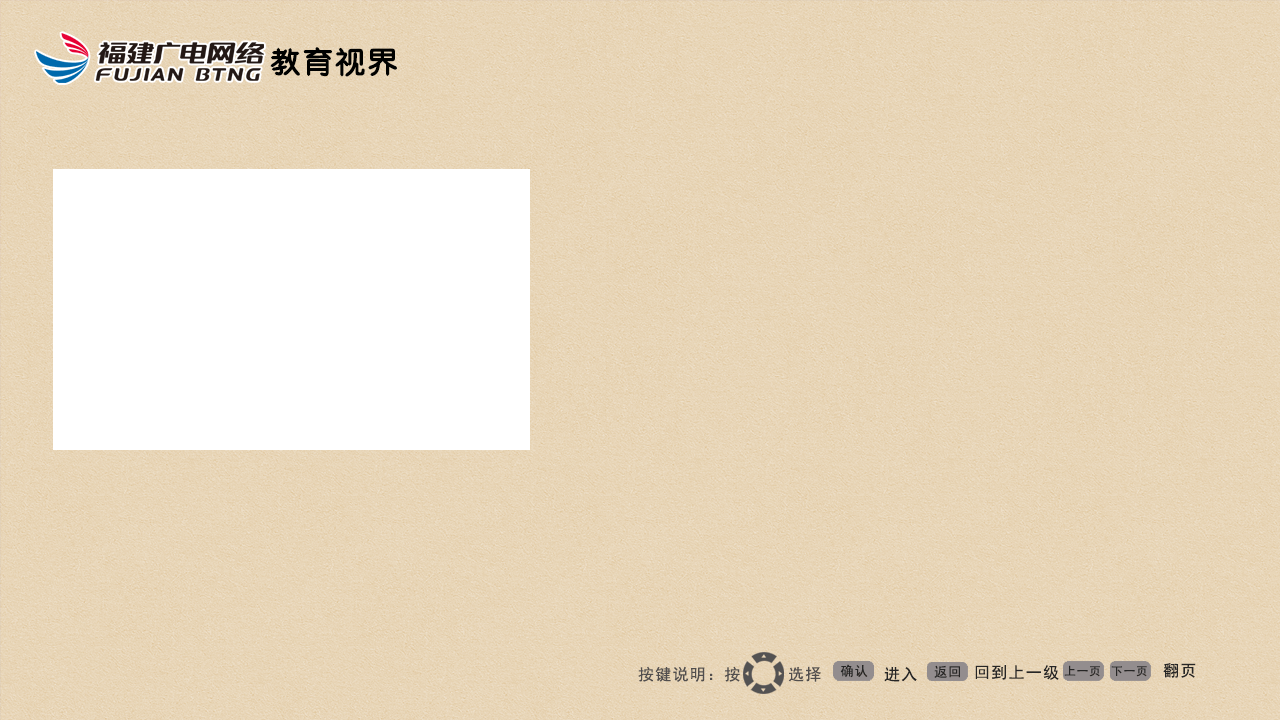
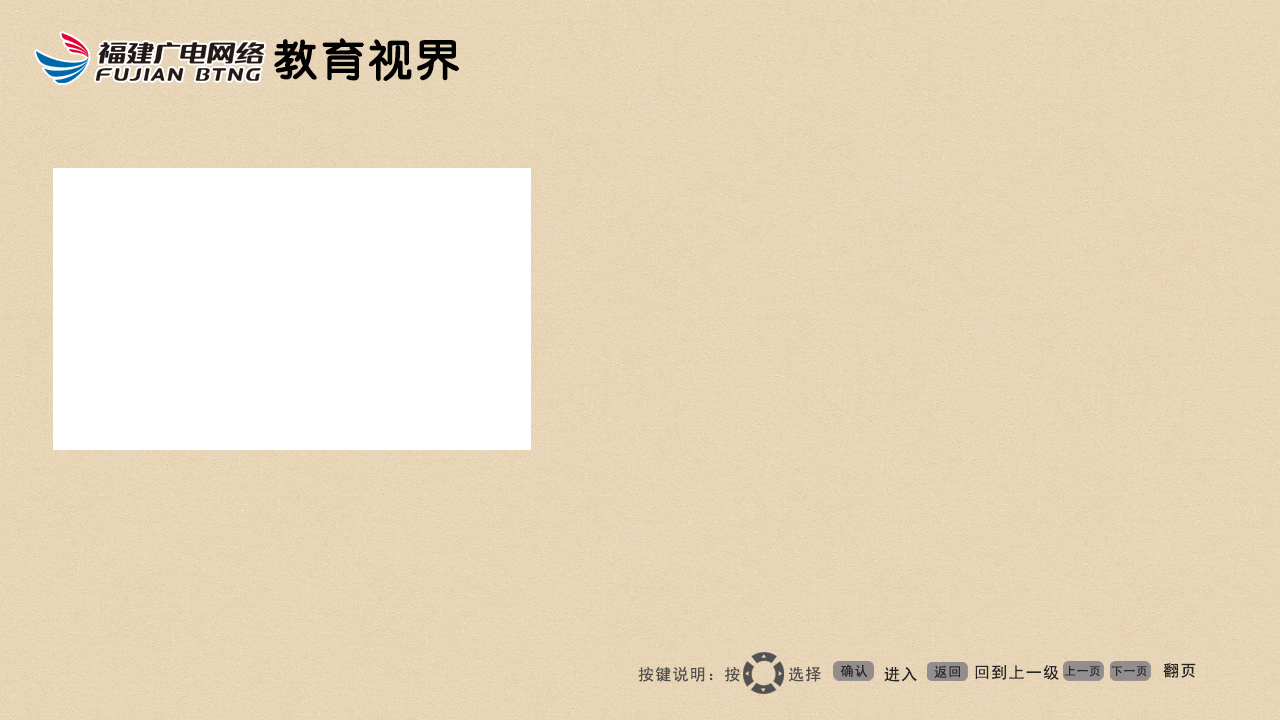
修改首页页面，将右侧滚动图片改为列表

Changed region(s): [[0.1875, 0.0306, 0.375, 0.1222]]

diff --git a/view/index.html b/view/index.html
@@ -9,8 +9,12 @@
 <div class="index-bg">
     <div id="bar" class="bar"></div>
     <div id="menu"></div>
-    <div id="swiper" class="swiper"></div>
+    <div id="notices_board" class="notices_board">
+        <div id="notices_board_bar"></div>
+        <div class="list-item-more"></div>
+    </div>
     <div id="weather-forecast"></div>
+    <div class="qrcode"></div>
     <div id="cursor"></div>
     <div id="debug-message"></div>
 </div>
@@ -21,8 +25,8 @@
 <script type="application/javascript" src="../cms/cms.api.js"></script>
 <script type="application/javascript" src="../module/bar.module.js"></script>
 <script type="application/javascript" src="../wrapper/bar.wrapper.js"></script>
-<script type="application/javascript" src="../module/swiper.module.js"></script>
 <script type="application/javascript" src="../module/menu.module.js"></script>
+<script type="application/javascript" src="../module/list.module.js"></script>
 <script type="application/javascript" src="../module/video.module.js"></script>
 <script type="application/javascript" src="../module/cursor.module.js"></script>
 <script type="application/javascript" src="../module/transfer.module.js"></script>
@@ -51,9 +55,9 @@
                     resourceId: cmsConfig.indexResourceIdArray[2].resourceId
                 },
                 {
-                    left: 56,
+                    left: 218,
                     top: 454,
-                    width: 805,
+                    width: 642,
                     height: 160,
                     bgImageSrc: 'url(../images/index/3.png) no-repeat',
                     resourceId: cmsConfig.indexResourceIdArray[3].resourceId
@@ -62,23 +66,38 @@
         }];
     }
 
-    function SwiperComponent() {
-        SwiperModule.call(this);
+    function ListComponent() {
+        ListModule.call(this);
 
-        this.swiperTop = 172;
-        this.swiperLeft = 868;
-        this.swiperWidth = 359;
-        this.swiperHeight = 446;
+        // 属性
+        this.focusPos = 0;
+        this.boardLeft = 865;
+        this.boardTop = 172;
+        this.boardWidth = 380;
+        this.boardHeight = 445;
+        this.noticesBoardBarWidth = 380;
+        this.noticesBoardBarHeight = 47;
+        this.itemLeft = 870;
+        this.itemTop = 222;
+        this.itemWidth = 370;
+        this.itemHeight = 32;
+        this.itemMoreLeft = 1068;
+        this.itemMoreTop = 565;
+        this.itemMoreWidth = 142;
+        this.itemMoreHeight = 34;
+        this.listItemNum = 8;
         this.resourceId = cmsConfig.indexResourceIdArray[4].resourceId;
+
+        // 方法
     }
 
-    function CursorComponent(bar, swiper, menu, video) {
+    function CursorComponent(bar, list, menu, video) {
         CursorModule.call(this);
 
         // 属性
         this.focusArea = 5;
         this.bar = bar;
-        this.swiper = swiper;
+        this.list = list;
         this.menu = menu;
         this.video = video;
         this.fileName = 'PG-ONE';
@@ -109,16 +128,15 @@
                     if (this.cursor.menu.focusPosY === 0 && direction < 0) {
                         this.cursor.focusArea = 7;              //  小视频
                     } else {
-                        this.cursor.focusArea = 6;              //  滚动图片
+                        this.cursor.focusArea = 2;              //  列表
                     }
                     break;
                 case 5:         // 栏目
                     this.remove('PG-ONE');              // 清除同一级的路径记录
                     this.cursor.bar.moveX(direction);
                     break;
-                case 6:         //  滚动图片
-                    if (-1 === this.cursor.swiper.moveX(direction) && direction < 0) {
-                        this.cursor.swiper.triggerTimer();
+                case 2:         //  列表
+                    if (direction < 0) {
                         this.cursor.focusArea = 0;
                         this.cursor.menu.focusPosX = 0;
                         this.cursor.menu.focusPosY = 0;
@@ -148,9 +166,8 @@
                 case 5:         // 栏目
                     this.cursor.focusArea = 7;
                     break;
-                case 6:         //  滚动图片
-                    if (-1 === this.cursor.swiper.moveY(direction)) {
-                        this.cursor.swiper.triggerTimer();
+                case 2:         //  滚动图片
+                    if (-1 === this.cursor.list.moveY(direction)) {
                         this.cursor.focusArea = 5;
                     }
                     break;
@@ -201,20 +218,34 @@
                     postfix = this.package(params);
                     window.location.href = 'video.html' + postfix;
                     break;
-                case 6:
-                    params =
-                        {
-                            'PG-ONE': {
-                                focusArea: this.cursor.focusArea
-                            },
-                            'VIDEO': {
-                                backURL: this.backUrl(),
-                                focusArea: this.cursor.focusArea,
-                                assertId: this.cursor.swiper.album[this.cursor.swiper.position].assertId
-                            }
+                case 2:         // 列表
+                    params = {
+                        'PG-ONE': {
+                            focusArea: this.cursor.focusArea,
+                            focusPos: this.cursor.list.focusPos
+                        }
+                    };
+                    if (this.cursor.list.listItemTitleArray[this.cursor.list.focusPos].flag === 0) {
+                        params.VIDEO = {
+                            backURL: this.backUrl(),
+                            fileName: this.cursor.fileName,
+                            focusArea: this.cursor.focusArea,
+                            focusPos: this.cursor.list.focusPos,
+                            assertId: this.cursor.list.listItemTitleArray[this.cursor.list.focusPos].assetID
                         };
-                    postfix = this.package(params);
-                    window.location.href = 'video.html' + postfix;
+                        postfix = this.package(params);
+                        window.location.href = 'video.html' + postfix;
+                    } else {
+                        params.PG_MORE = {
+                            resourceId: cmsConfig.studentResourceIdArray[2].resourceId,
+                            resourceType: 'video',
+                            backURL: 'index.html',
+                            logoImageSrc: '',
+                            pageIndex: 1
+                        };
+                        postfix = this.package(params);
+                        window.location.href = 'more.html' + postfix;
+                    }
                     break;
                 case 7:
                     params =
@@ -303,9 +334,9 @@
     window.onload = function () {
         var
             barComponent = new BarComponent(),
-            swiperComponent = new SwiperComponent(),
+            listComponent = new ListComponent(),
             menuComponent = new MenuComponent(),
-            cursorComponent = new CursorComponent(barComponent, swiperComponent, menuComponent, videoComponent),
+            cursorComponent = new CursorComponent(barComponent, listComponent, menuComponent, videoComponent),
             transferComponent = new TransferComponent(cursorComponent),
             weatherModule = new WeatherModule();
 
@@ -327,7 +358,6 @@
          */
         transferComponent.init();
         barComponent.init();
-        swiperComponent.init();
         menuComponent.init();
         videoComponent.init();
         weatherModule.init(function () {
@@ -342,7 +372,9 @@
         /**
          *  光标定位
          */
-        cursorComponent.focusOn();
+        listComponent.init(function () {
+            cursorComponent.focusOn();
+        });
     };
 
     window.onunload = function () {

diff --git a/cms/cms.config.js b/cms/cms.config.js
@@ -7,8 +7,8 @@ var cmsConfig = {
     imgUrl: 'http://10.184.255.10:8080/manage/',
     backUrl: '',
     index_back_url: '',
-    environment: 'DEBUG',
-    // environment: 'PRODUCT',
+    // environment: 'DEBUG',
+    environment: 'PRODUCT',
 
     /**
      * 教育概况
@@ -22,7 +22,9 @@ var cmsConfig = {
         {title: '左上海报', resourceId: '890'},
         {title: '中间海报', resourceId: '891'},
         {title: '左下海报', resourceId: '892'},
-        {title: '右侧海报', resourceId: '893'}
+
+        // ---------------  列表  ---------------  //
+        {title: '右侧列表', resourceId: '893'}
     ],
 
     /**

diff --git a/view/student.html b/view/student.html
@@ -24,7 +24,6 @@
 <script type="application/javascript" src="../module/bar.module.js"></script>
 <script type="application/javascript" src="../wrapper/bar.wrapper.js"></script>
 <script type="application/javascript" src="../module/menu.module.js"></script>
-<script type="application/javascript" src="../module/swiper.module.js"></script>
 <script type="application/javascript" src="../module/list.module.js"></script>
 <script type="application/javascript" src="../module/cursor.module.js"></script>
 <script type="application/javascript" src="../module/transfer.module.js"></script>

diff --git a/style/common.css b/style/common.css
@@ -34,15 +34,14 @@
     margin: 0 auto;
 }
 
-/*.button-intro {*/
-/*position: absolute;*/
-/*right: 0;*/
-/*bottom: 0;*/
-/*width: 558px;*/
-/*height: 42px;*/
-/*margin: 0 70px 30px 0;*/
-/*background: url(../images/button-intro.png) no-repeat;*/
-/*}*/
+.qrcode {
+    background: url(../images/index/5.png) center no-repeat;
+    position: absolute;
+    top: 454px;
+    left: 56px;
+    width: 159px;
+    height: 159px;
+}
 
 /* ----  栏目  ---- */
 .bar {
